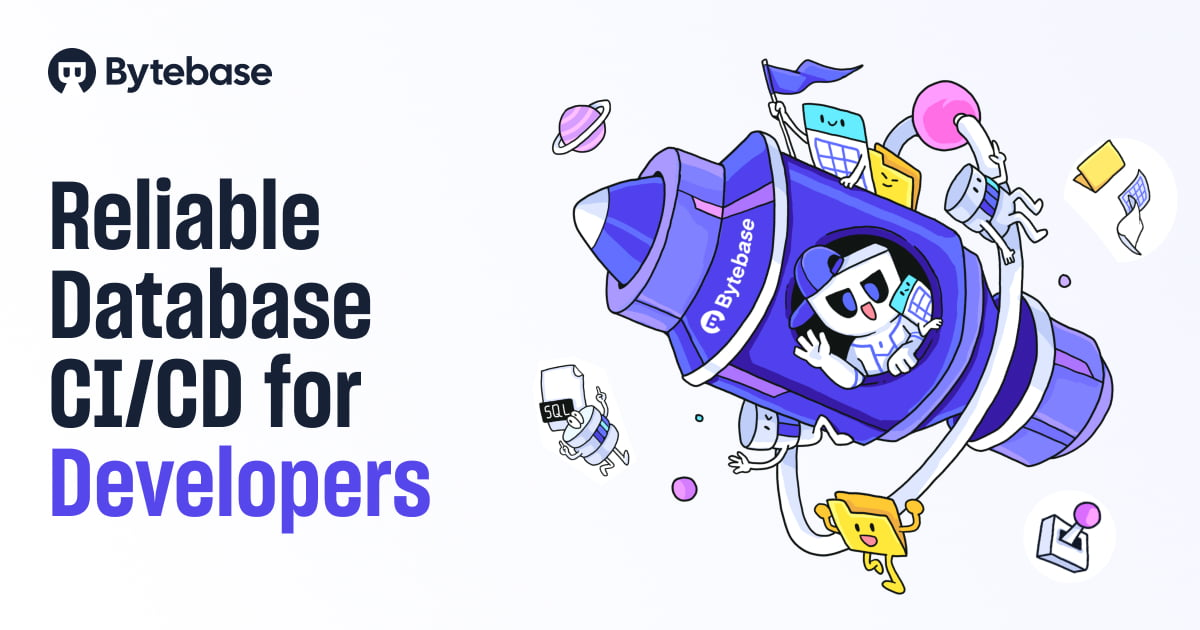
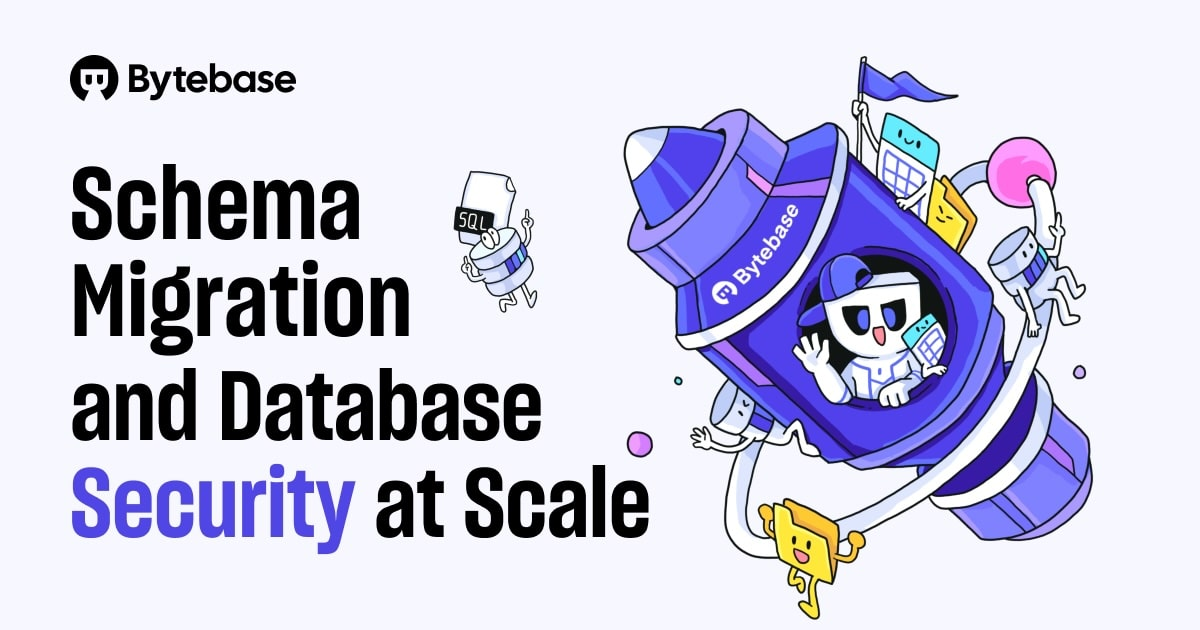
docs: update index image

diff --git a/src/utils/get-metadata.ts b/src/utils/get-metadata.ts
@@ -5,7 +5,7 @@ type Metadata = {
   imagePath?: string;
 };
 
-const DEFAULT_IMAGE_PATH = '/images/social-previews/bytebase-3-0.png';
+const DEFAULT_IMAGE_PATH = '/images/social-previews/index.jpg';
 
 export default function getMetadata({
   title,
